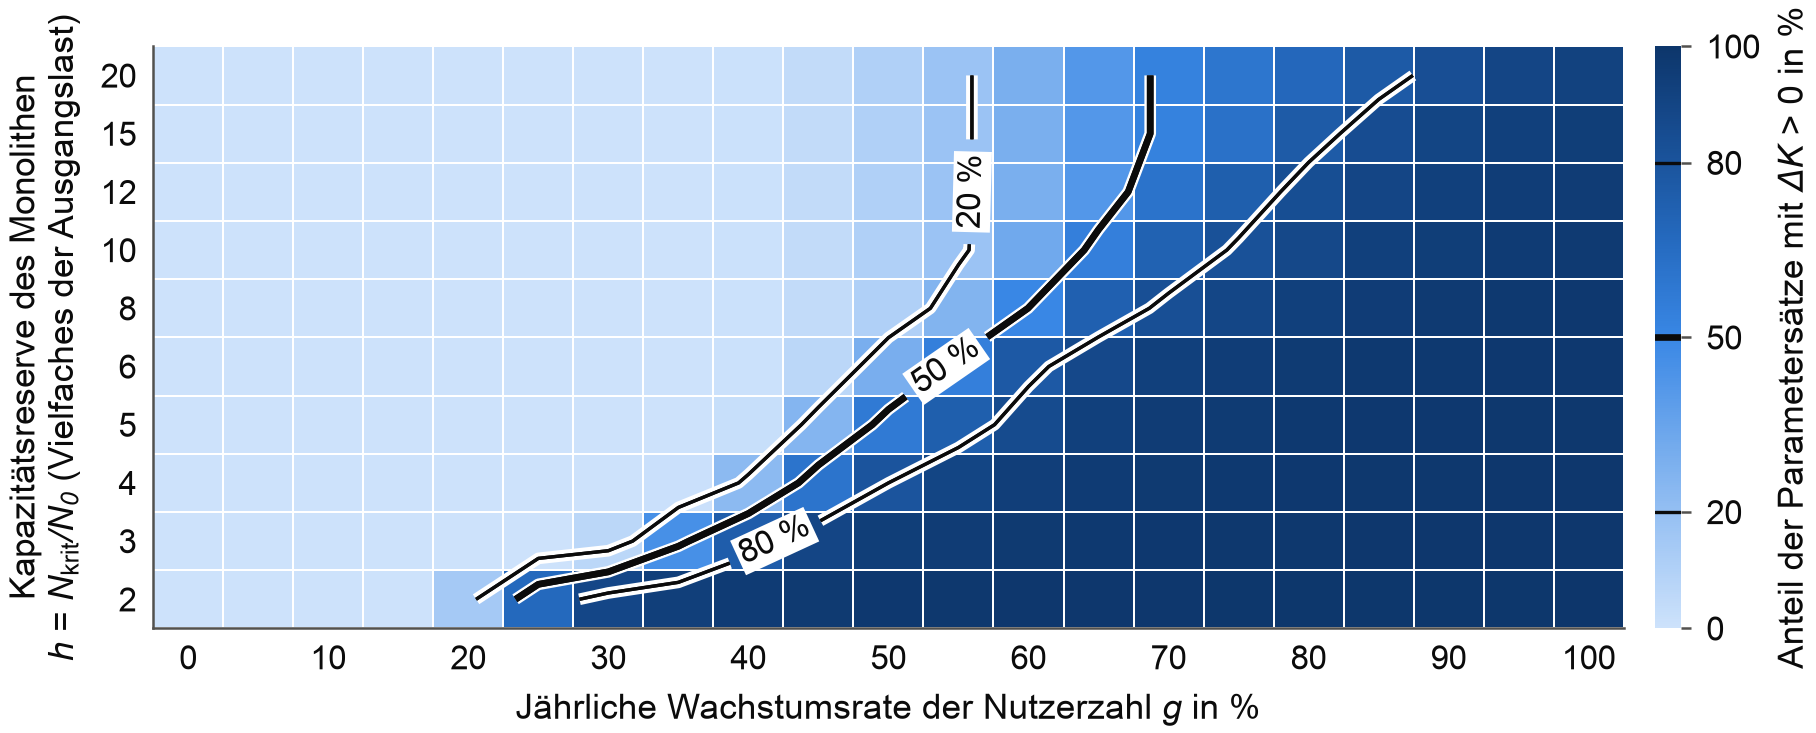
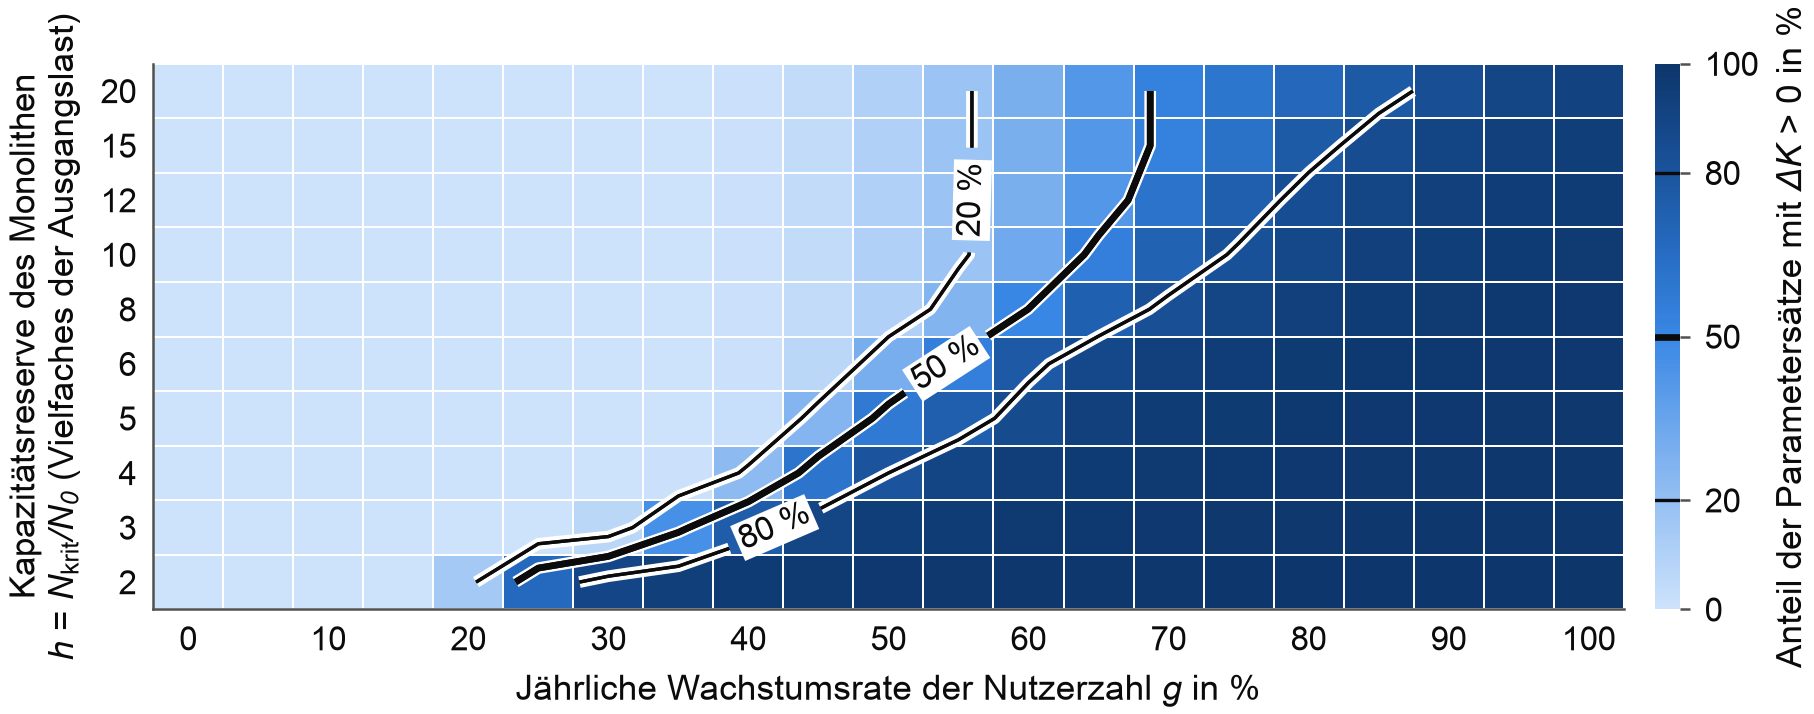
docs: v1.1.1 compact figure heights and table spacing
Presentation only. Model logic and result data unchanged.

diff --git a/src/figures.py b/src/figures.py
@@ -154,7 +154,7 @@ def fig_wachstumskurve():
     c = pd.read_csv(DATA / "wachstumskurve.csv")
     thr = json.loads((DATA / "results.json").read_text(encoding="utf-8"))["breakeven"][
         "kurve_schwellen"]
-    fig, (a1, a2) = plt.subplots(2, 1, figsize=(WIDTH, 9.8 * CM), sharex=True,
+    fig, (a1, a2) = plt.subplots(2, 1, figsize=(WIDTH, 9.2 * CM), sharex=True,
                                  gridspec_kw={"height_ratios": [1.15, 1], "hspace": 0.28})
     g = c["g"].to_numpy()
     lo, hi, gs = thr["g_bei_P20"], thr["g_bei_P80"], thr["g_bei_P50"]
@@ -214,7 +214,7 @@ def fig_heatmap():
     hm = json.loads((DATA / "heatmap.json").read_text(encoding="utf-8"))
     g, h, P = np.array(hm["g"]), np.array(hm["h"]), np.array(hm["P"])
     rows = np.arange(len(h))
-    fig, ax = plt.subplots(figsize=(WIDTH, 6.4 * CM))
+    fig, ax = plt.subplots(figsize=(WIDTH, 6.0 * CM))
     im = ax.pcolormesh(g, rows, P, cmap=SEQ, vmin=0, vmax=1, shading="nearest",
                        edgecolors="white", linewidth=0.4)
     cs = ax.contour(g, rows, P, levels=[0.2, 0.5, 0.8], colors=INK,

diff --git a/src/tables.py b/src/tables.py
@@ -106,7 +106,7 @@ def tab_parameter():
     {de(I_MONO)}$\,EUR, $N_0 = {de(N0)}$ Nutzer.}}
   \label{{tab:parameter}}
   \footnotesize
-  \renewcommand{{\arraystretch}}{{1.08}}
+  \renewcommand{{\arraystretch}}{{1.04}}
   \begin{{tabular}}{{@{{}}l >{{\raggedright\arraybackslash}}p{{5.4cm}} r r r c
       >{{\raggedright\arraybackslash}}p{{3.8cm}}@{{}}}}
     \toprule
